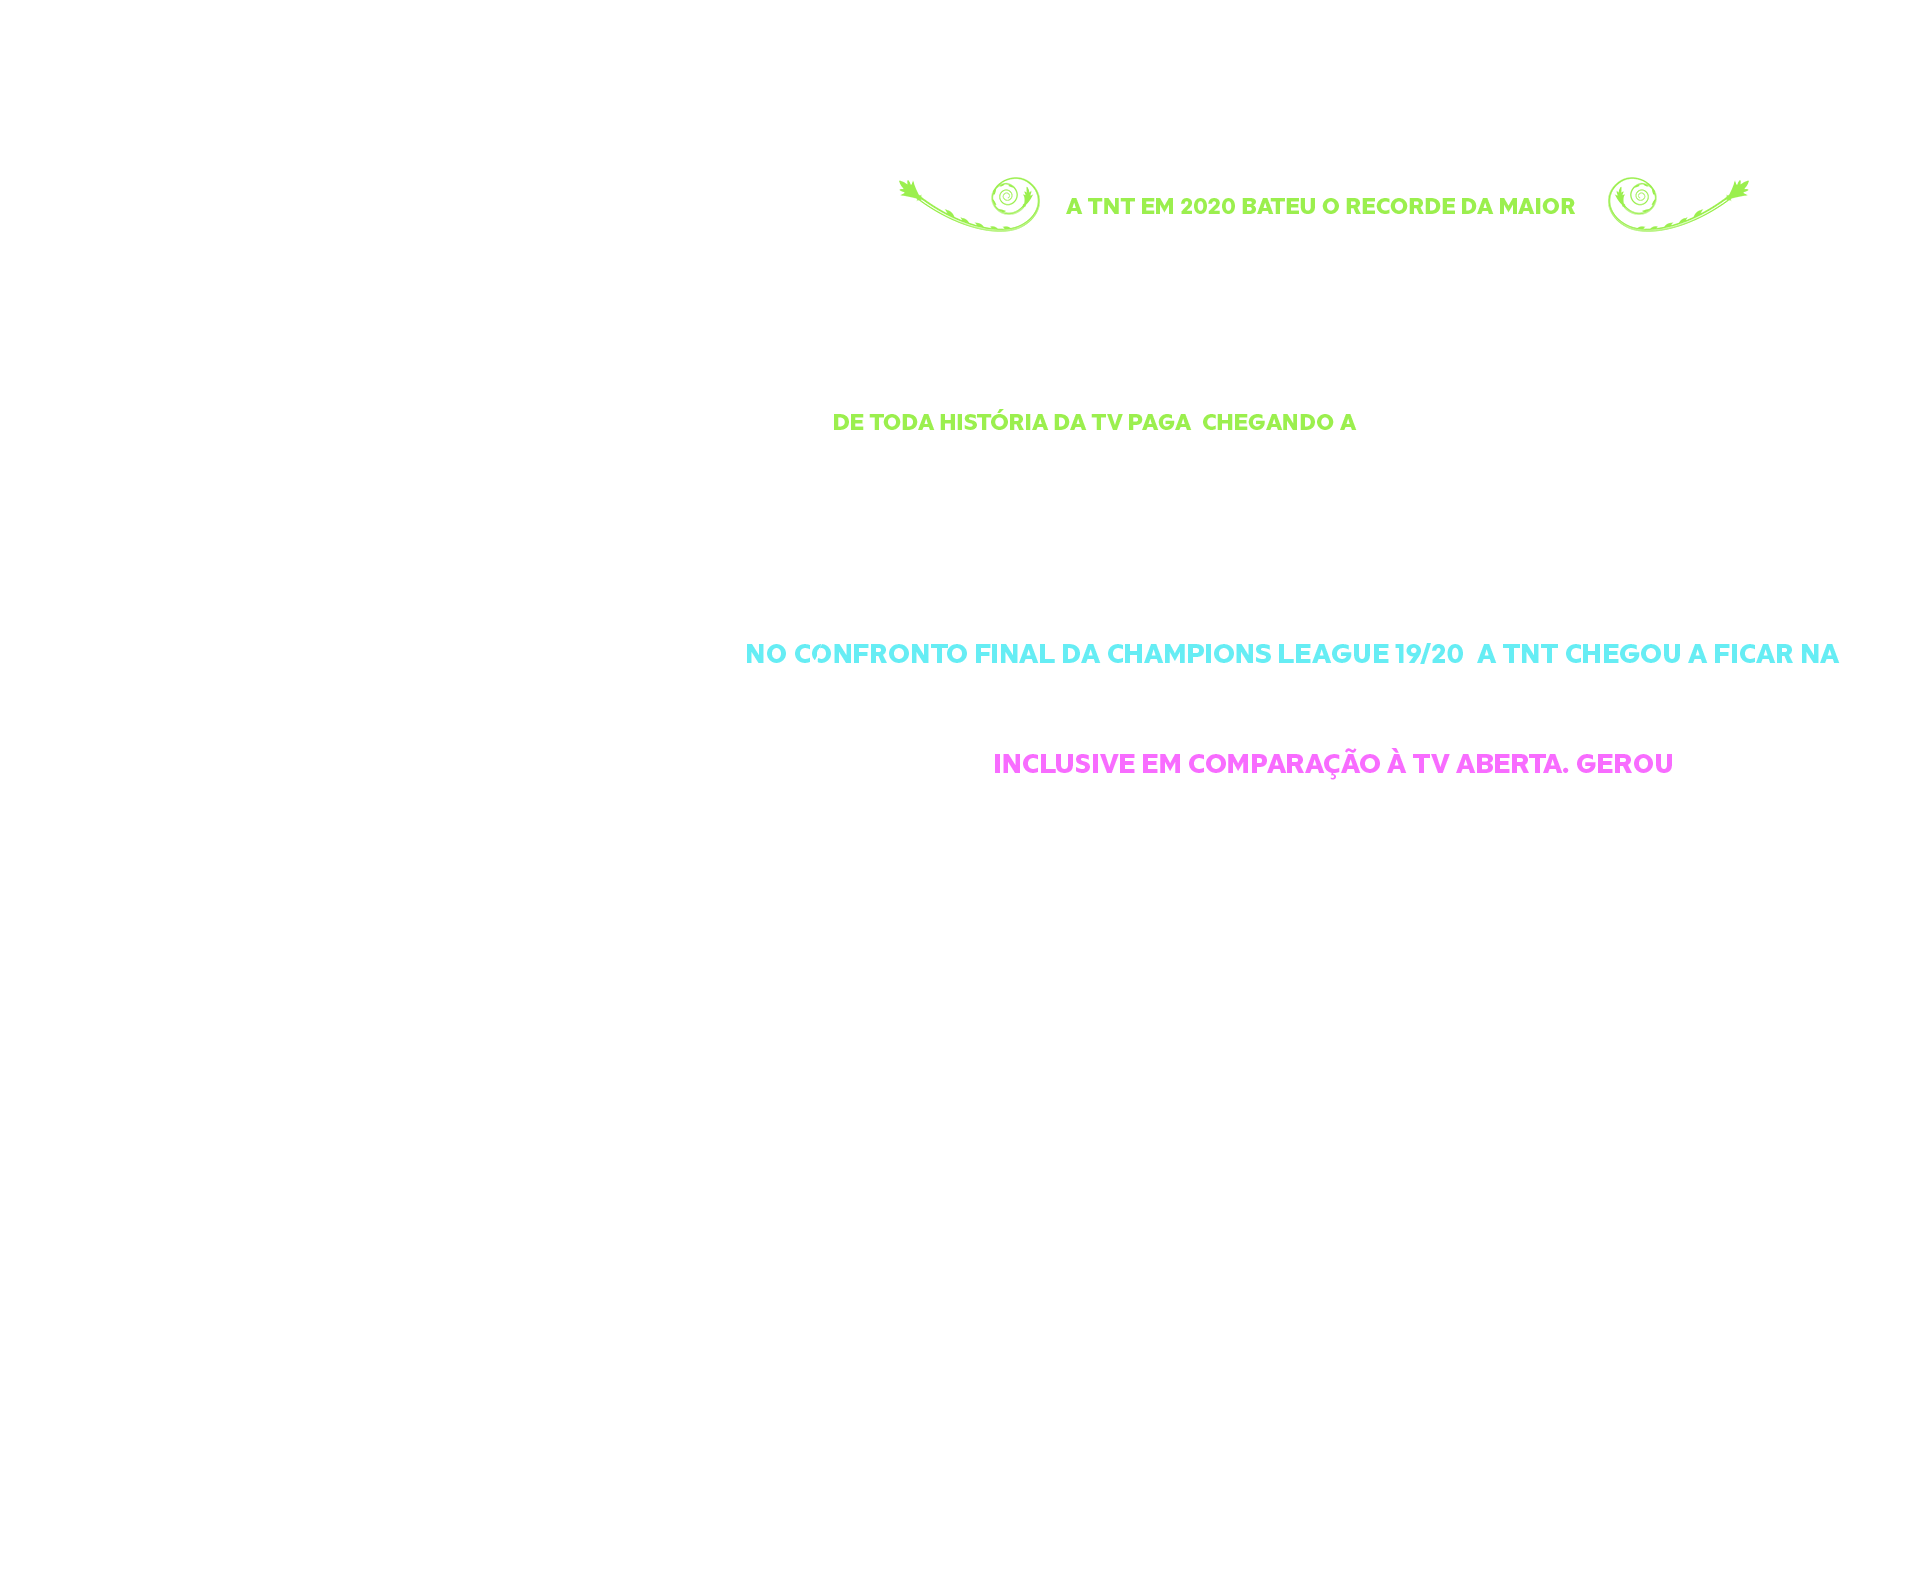
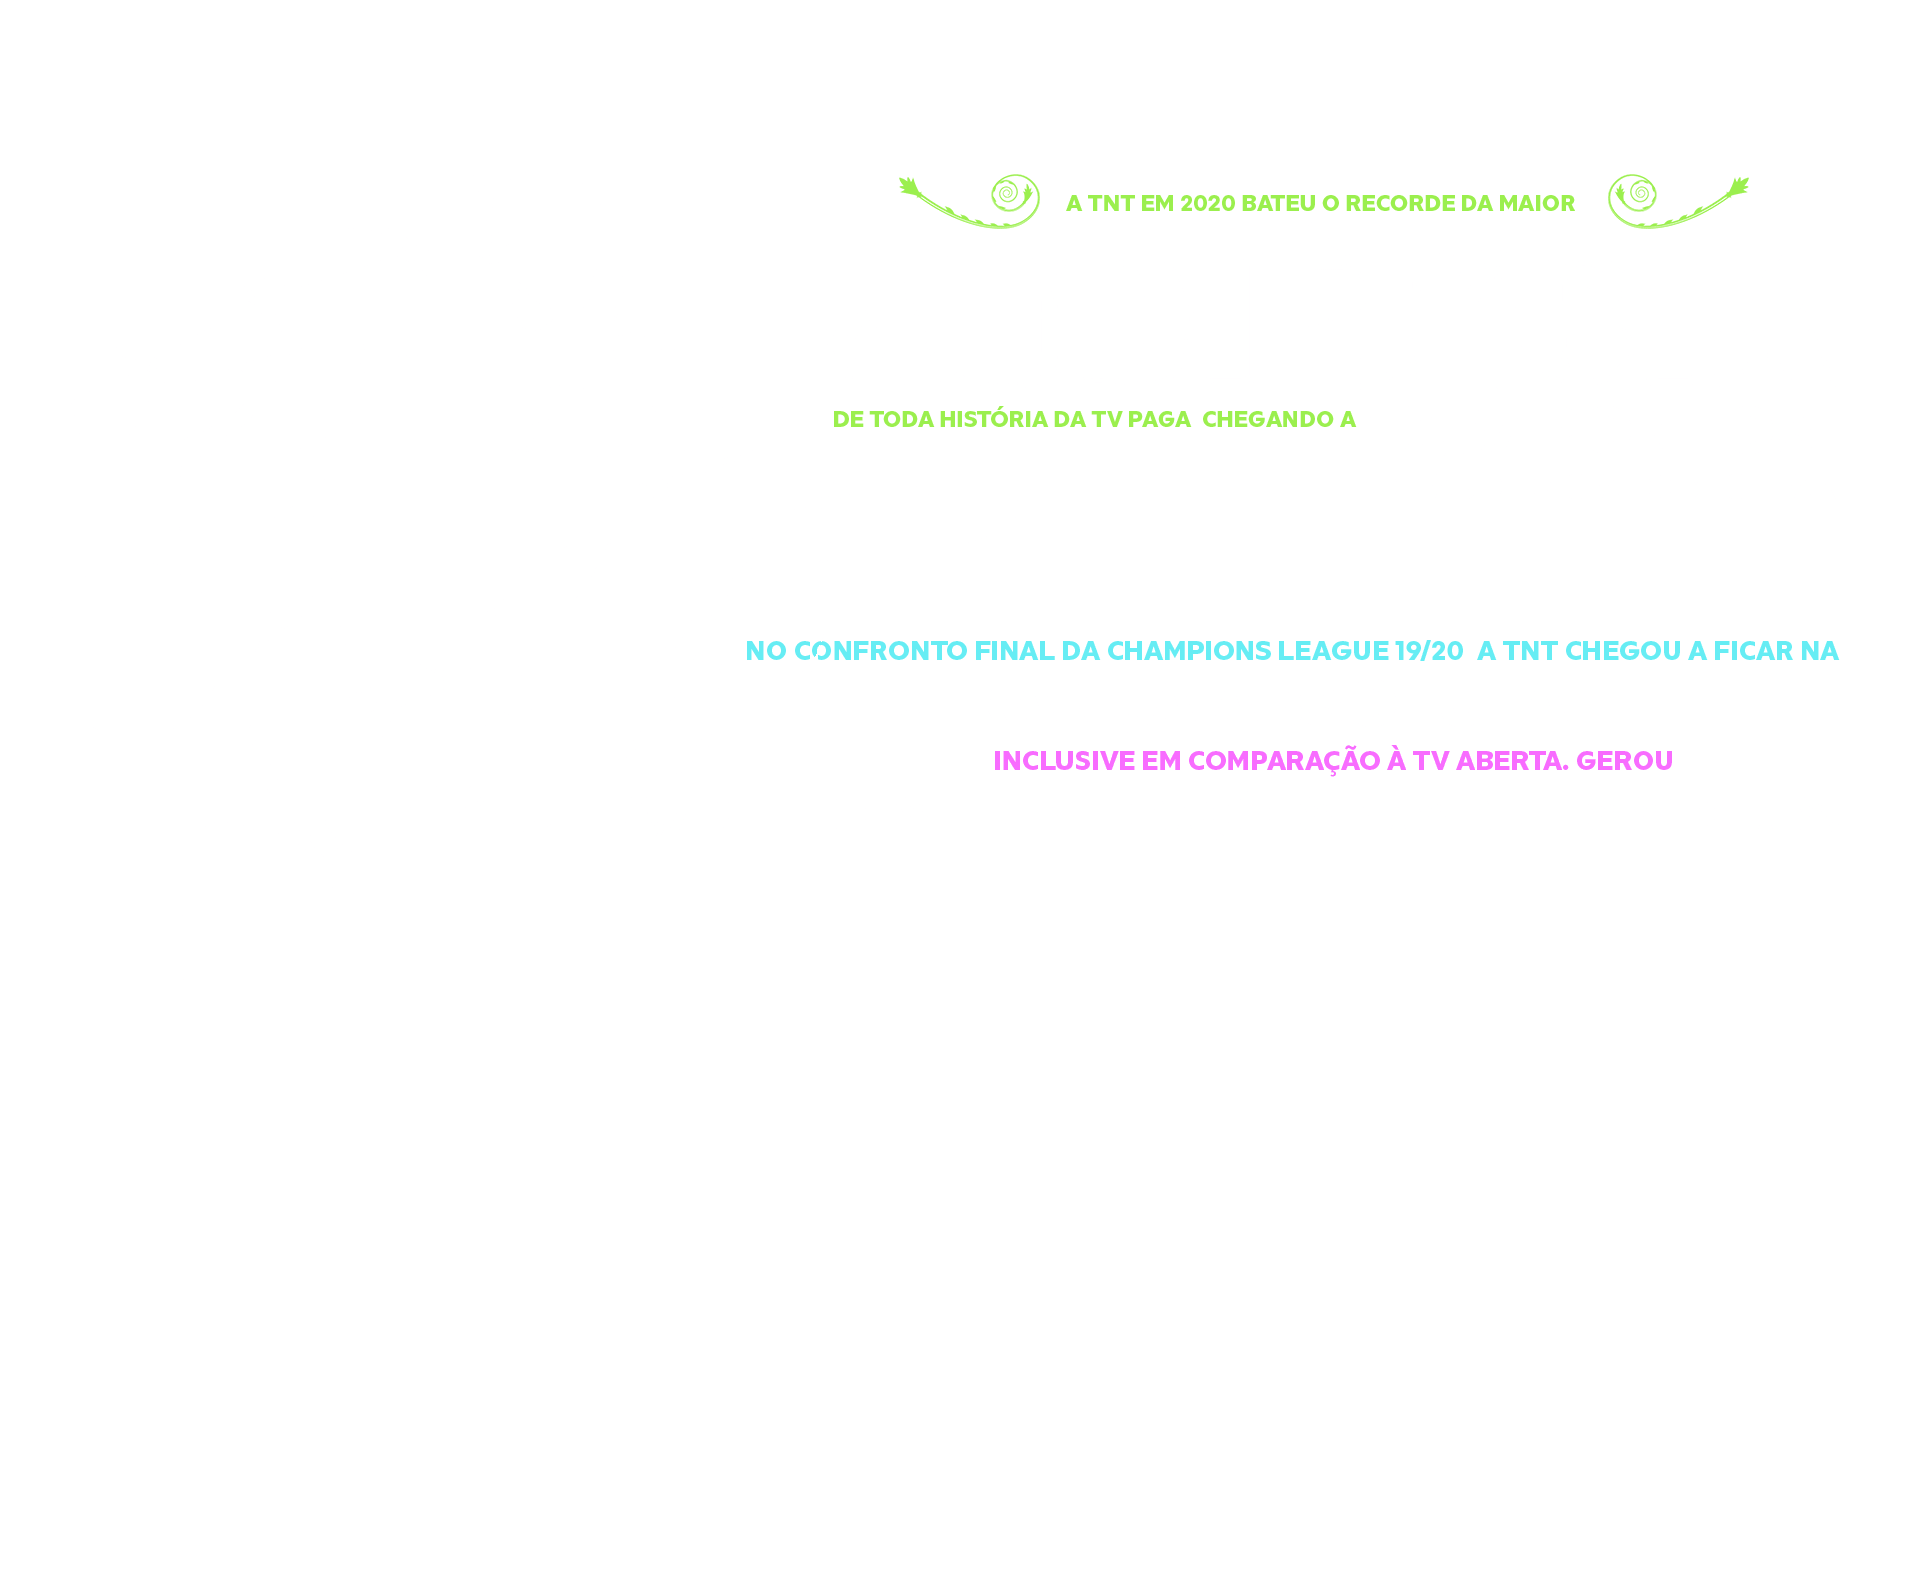
Ajuste parte redes

diff --git a/assets/css/audiencia.scss b/assets/css/audiencia.scss
@@ -27,7 +27,7 @@
             font-size: 16px;
             line-height: 20px;
             text-transform: uppercase;
-            margin-top: 23px;
+            margin-top: 0px;
         }
 
         a {
@@ -67,8 +67,8 @@
     background-size: cover;
 
     img {
-        margin-top: -140px;
-        margin-bottom: -70px;
+        margin-top: -125px;
+        margin-bottom: 20px;
     }
 }
 
@@ -100,7 +100,7 @@
             p {
                 font-size: 9px;
                 line-height: 10px;
-                margin-top: 12px;
+                margin-top: 0px;
             }
 
             a {
@@ -124,7 +124,7 @@
 
         img {
             margin-top: -50px;
-            margin-bottom: -20px;
+            margin-bottom: 10px;
         }
     }
     .cn {

diff --git a/assets/css/style.css b/assets/css/style.css
@@ -512,7 +512,7 @@ p {
   font-size: 16px;
   line-height: 20px;
   text-transform: uppercase;
-  margin-top: 23px;
+  margin-top: 0px;
 }
 
 .vote-agora .box a {
@@ -551,8 +551,8 @@ p {
 }
 
 .ei img {
-  margin-top: -140px;
-  margin-bottom: -70px;
+  margin-top: -125px;
+  margin-bottom: 20px;
 }
 
 .cn {
@@ -579,7 +579,7 @@ p {
   .vote-agora .box p {
     font-size: 9px;
     line-height: 10px;
-    margin-top: 12px;
+    margin-top: 0px;
   }
   .vote-agora .box a {
     font-size: 10px;
@@ -595,7 +595,7 @@ p {
   }
   .ei img {
     margin-top: -50px;
-    margin-bottom: -20px;
+    margin-bottom: 10px;
   }
   .cn img {
     margin-bottom: -10px;

diff --git a/assets/css/audiencia.css b/assets/css/audiencia.css
@@ -26,7 +26,7 @@
   font-size: 16px;
   line-height: 20px;
   text-transform: uppercase;
-  margin-top: 23px;
+  margin-top: 0px;
 }
 
 .vote-agora .box a {
@@ -65,8 +65,8 @@
 }
 
 .ei img {
-  margin-top: -140px;
-  margin-bottom: -70px;
+  margin-top: -125px;
+  margin-bottom: 20px;
 }
 
 .cn {
@@ -93,7 +93,7 @@
   .vote-agora .box p {
     font-size: 9px;
     line-height: 10px;
-    margin-top: 12px;
+    margin-top: 0px;
   }
   .vote-agora .box a {
     font-size: 10px;
@@ -109,7 +109,7 @@
   }
   .ei img {
     margin-top: -50px;
-    margin-bottom: -20px;
+    margin-bottom: 10px;
   }
   .cn img {
     margin-bottom: -10px;

diff --git a/assets/css/style.scss b/assets/css/style.scss
@@ -5,4 +5,4 @@
 @import "audiencia"; 
 @import "infos";                                                        
 @import "contato";     
-@import "politica";
+@import "politica";                  

diff --git a/application/views/home_view.php b/application/views/home_view.php
@@ -15,7 +15,7 @@
             <ul class="nav navbar-nav">
                 <li><a href="#">HOME</a></li>
                 <li><a href="#">FATOS INACREDITÁVEIS</a></li>
-                <li class="vote"><a href=""><span>VOTE NA TURNER</span></a></li>
+                <li class="vote"> <a href="https://www.cabore.com.br/indicados/turner/" target="_blank"><span>VOTE NA TURNER</span></a></li>
             </ul>
             <ul class="nav navbar-nav navbar-right hidden-xs">
                 <li class="logo">
@@ -88,9 +88,9 @@
                             Principal premiação<br>
                             da indústria de comunicação<br>
                             no Brasil, é considerado<br>
-                            o “Oscar” do mercado.<br>
+                            o “Oscar” do mercado. <u>VOTAÇÃO EXCLUSIVA PARA ASSINANTES DO MEIO MENSAGEM</u>.<br>
                         </p>
-                        <a href="">
+                        <a href="https://www.cabore.com.br/indicados/turner/" target="_blank">
                             CLIQUE E VOTE AGORA
                         </a>
                     </div>
@@ -193,10 +193,21 @@
             </div>
             <div class="col-xs-12 col-sm-12 col-md-10 col-md-offset-1">
                 <p>
-                    Fontes: *Kantar IBOPE Media Brasil. 15 Mercados. 30/06 a 30/07/2020. Das21h41 às 21h46. PG CARENTENERS NOT. Cov%. Base com TV Paga: Pessoas 4+ anos (26.344.500 / univ. proj.: 46.276.417). Considerando 15.3M de domicílios assinantes (Anatel - Mai'20) e 3,02 pessoas por domicílio.
-                    **Kantar IBOPE Media. 15 Mercados. TNT. Coala Festival. 12/09/2020.  Base com TV Paga. Pessoas 4+ (univ.:26.344.500/univ.proj.: 41.912.990)- Considerando 15.2MM de domicílios assinantes (Anatel - Jun'20)e 3,02 pessoas por domicílio; Social Bakers. Conteúdos relacionados
-                    #CoalanaTNT. 17/08/2020 a 14/09/2020.Youtube Analytics.  Kantar IBOPE Media. Brasil. 15 Mercados. TNT. Coala Festival. 12/09/2020. Cov%. Base com TV Paga. Pessoas 4+ anos (univ.: 26.344.500 / univ.proj.: 41.912.990) - Considerando 15.2 MM de domicílios assinantes (Anatel
-                    Jun'20) e 3,02 pessoas por domicílio; Social Bakers. Conteúdos relacionados à #CoalanaTNT. 17/08 à 14/09/20.***Fonte: Social Bakers. Jun à Agosto'20. Conteúdos relacionados #DCFandome; BrandWatch. Brasil. Últimos 30 dias
+                    Fontes: UCL | Fonte: Kantar IBOPE Media Brasil. 15 Mercados. 23/08/2020. Fut Liga Campeões Europa Vivo. Rat%. 
+                    Base com TV Paga: Total de domicílios (9.436.000) ; Social Bakers. 23/08/2020. Conteúdos relacionados à 
+                    #CasaDaChampions ; EI | Social Bakers. Jan a Set’20 ; CN | Kantar IBOPE Media Brasil. 9 Mercados (2013) 
+                    e 15 Mercados (2014 a 2020). Jan a Set. Rat%. Base com TV Paga: Crianças 4 a 11 anos (3.236.800) ; Turner 
+                    | Kantar IBOPE Media Brasil. 15 Mercados. Ago’20. Cov%. Base com TV Paga: Pessoas 4+ anos (26.344.500 / 
+                    univ. proj.: 45.791.100). Considerando 15.1M de domicílios assinantes (Anatel – Jul’20) e 3,02 pessoas 
+                    por domicílio ; Carenteners | Kantar IBOPE Media Brasil. 15 Mercados. 30/06 a 30/07/2020. Das 21h41 às 
+                    21h46. Pg Carenteners Not. Cov%. Base com TV Paga: Pessoas 4+ anos (26.344.500 / univ. proj.: 46.276.417). 
+                    Considerando 15.2M de domicílios assinantes (Anatel - Mai'20) e 3,02 pessoas por domicílio ; Youtube Analytics ; 
+                    Coala | Kantar IBOPE Media Brasil. 15 Mercados. Coala Festival. 12/09/2020. Cov%. Base com TV Paga: Pessoas 4+
+                     anos (26.344.500 / univ. proj.: 41.912.990). Considerando 15.2 MM de domicílios assinantes (Anatel - Jun'20) 
+                     e 3,02 pessoas por domicílio ; Social Bakers. Conteúdos relacionados à #CoalaNaTNT. 17/08 a 14/09/20 ; GAL 75 | 
+                     Kantar IBOPE Media Brasil. 15 Mercados. Gal 75 Not Sb. 26/09/2020. Cov%. Base com TV Paga: Pessoas 4+ anos 
+                     (26.344.500 / univ. proj.: 41.912.990). Considerando 15.2 MM de domicílios (Anatel - Jun'20) e 3,02 pessoas 
+                     por domicílio ; Youtube Analytics ; DC Fandome | Social Bakers. Jun a Ago’20. Conteúdos relacionados à #DCFandome
                 </p>
             </div>
         </div>

diff --git a/application/views/html_header.php b/application/views/html_header.php
@@ -33,7 +33,7 @@
     );
     echo meta($meta);
     echo link_tag('assets/css/bootstrap.min.css');
-    echo link_tag('assets/css/style.css?v=0.1');
+    echo link_tag('assets/css/style.css?v=0.4');
     ?>
 </head>
 
